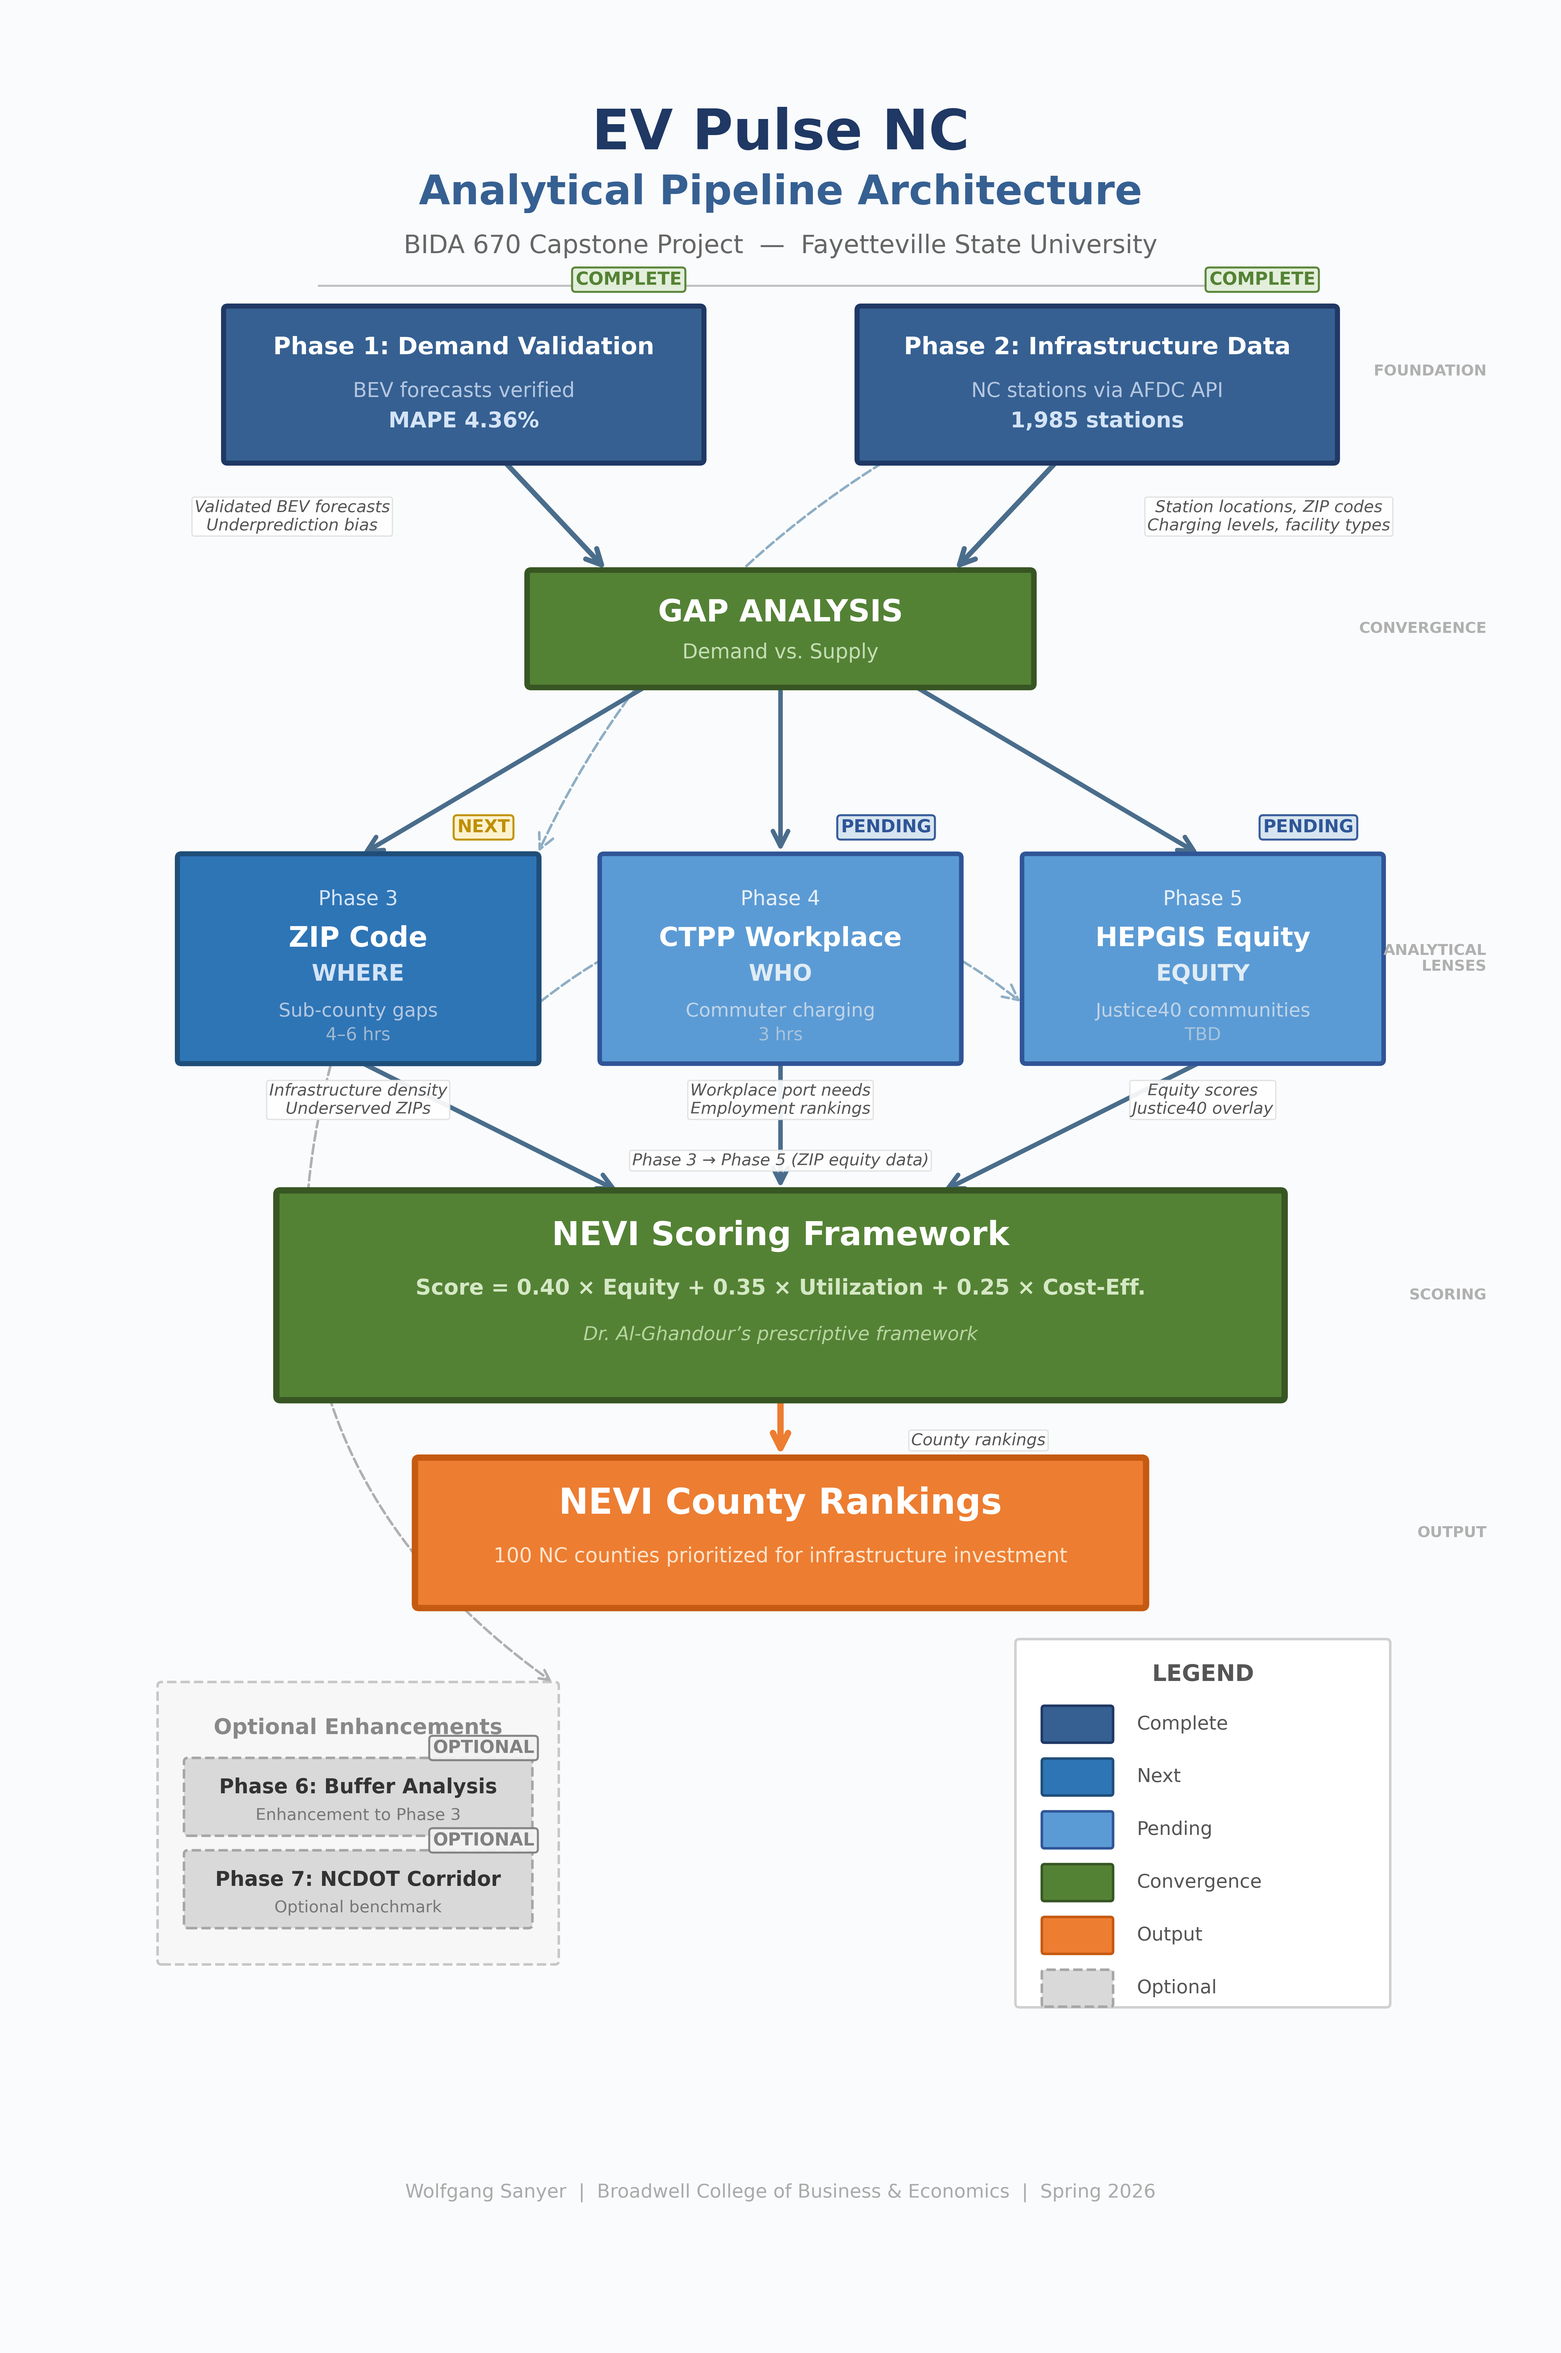
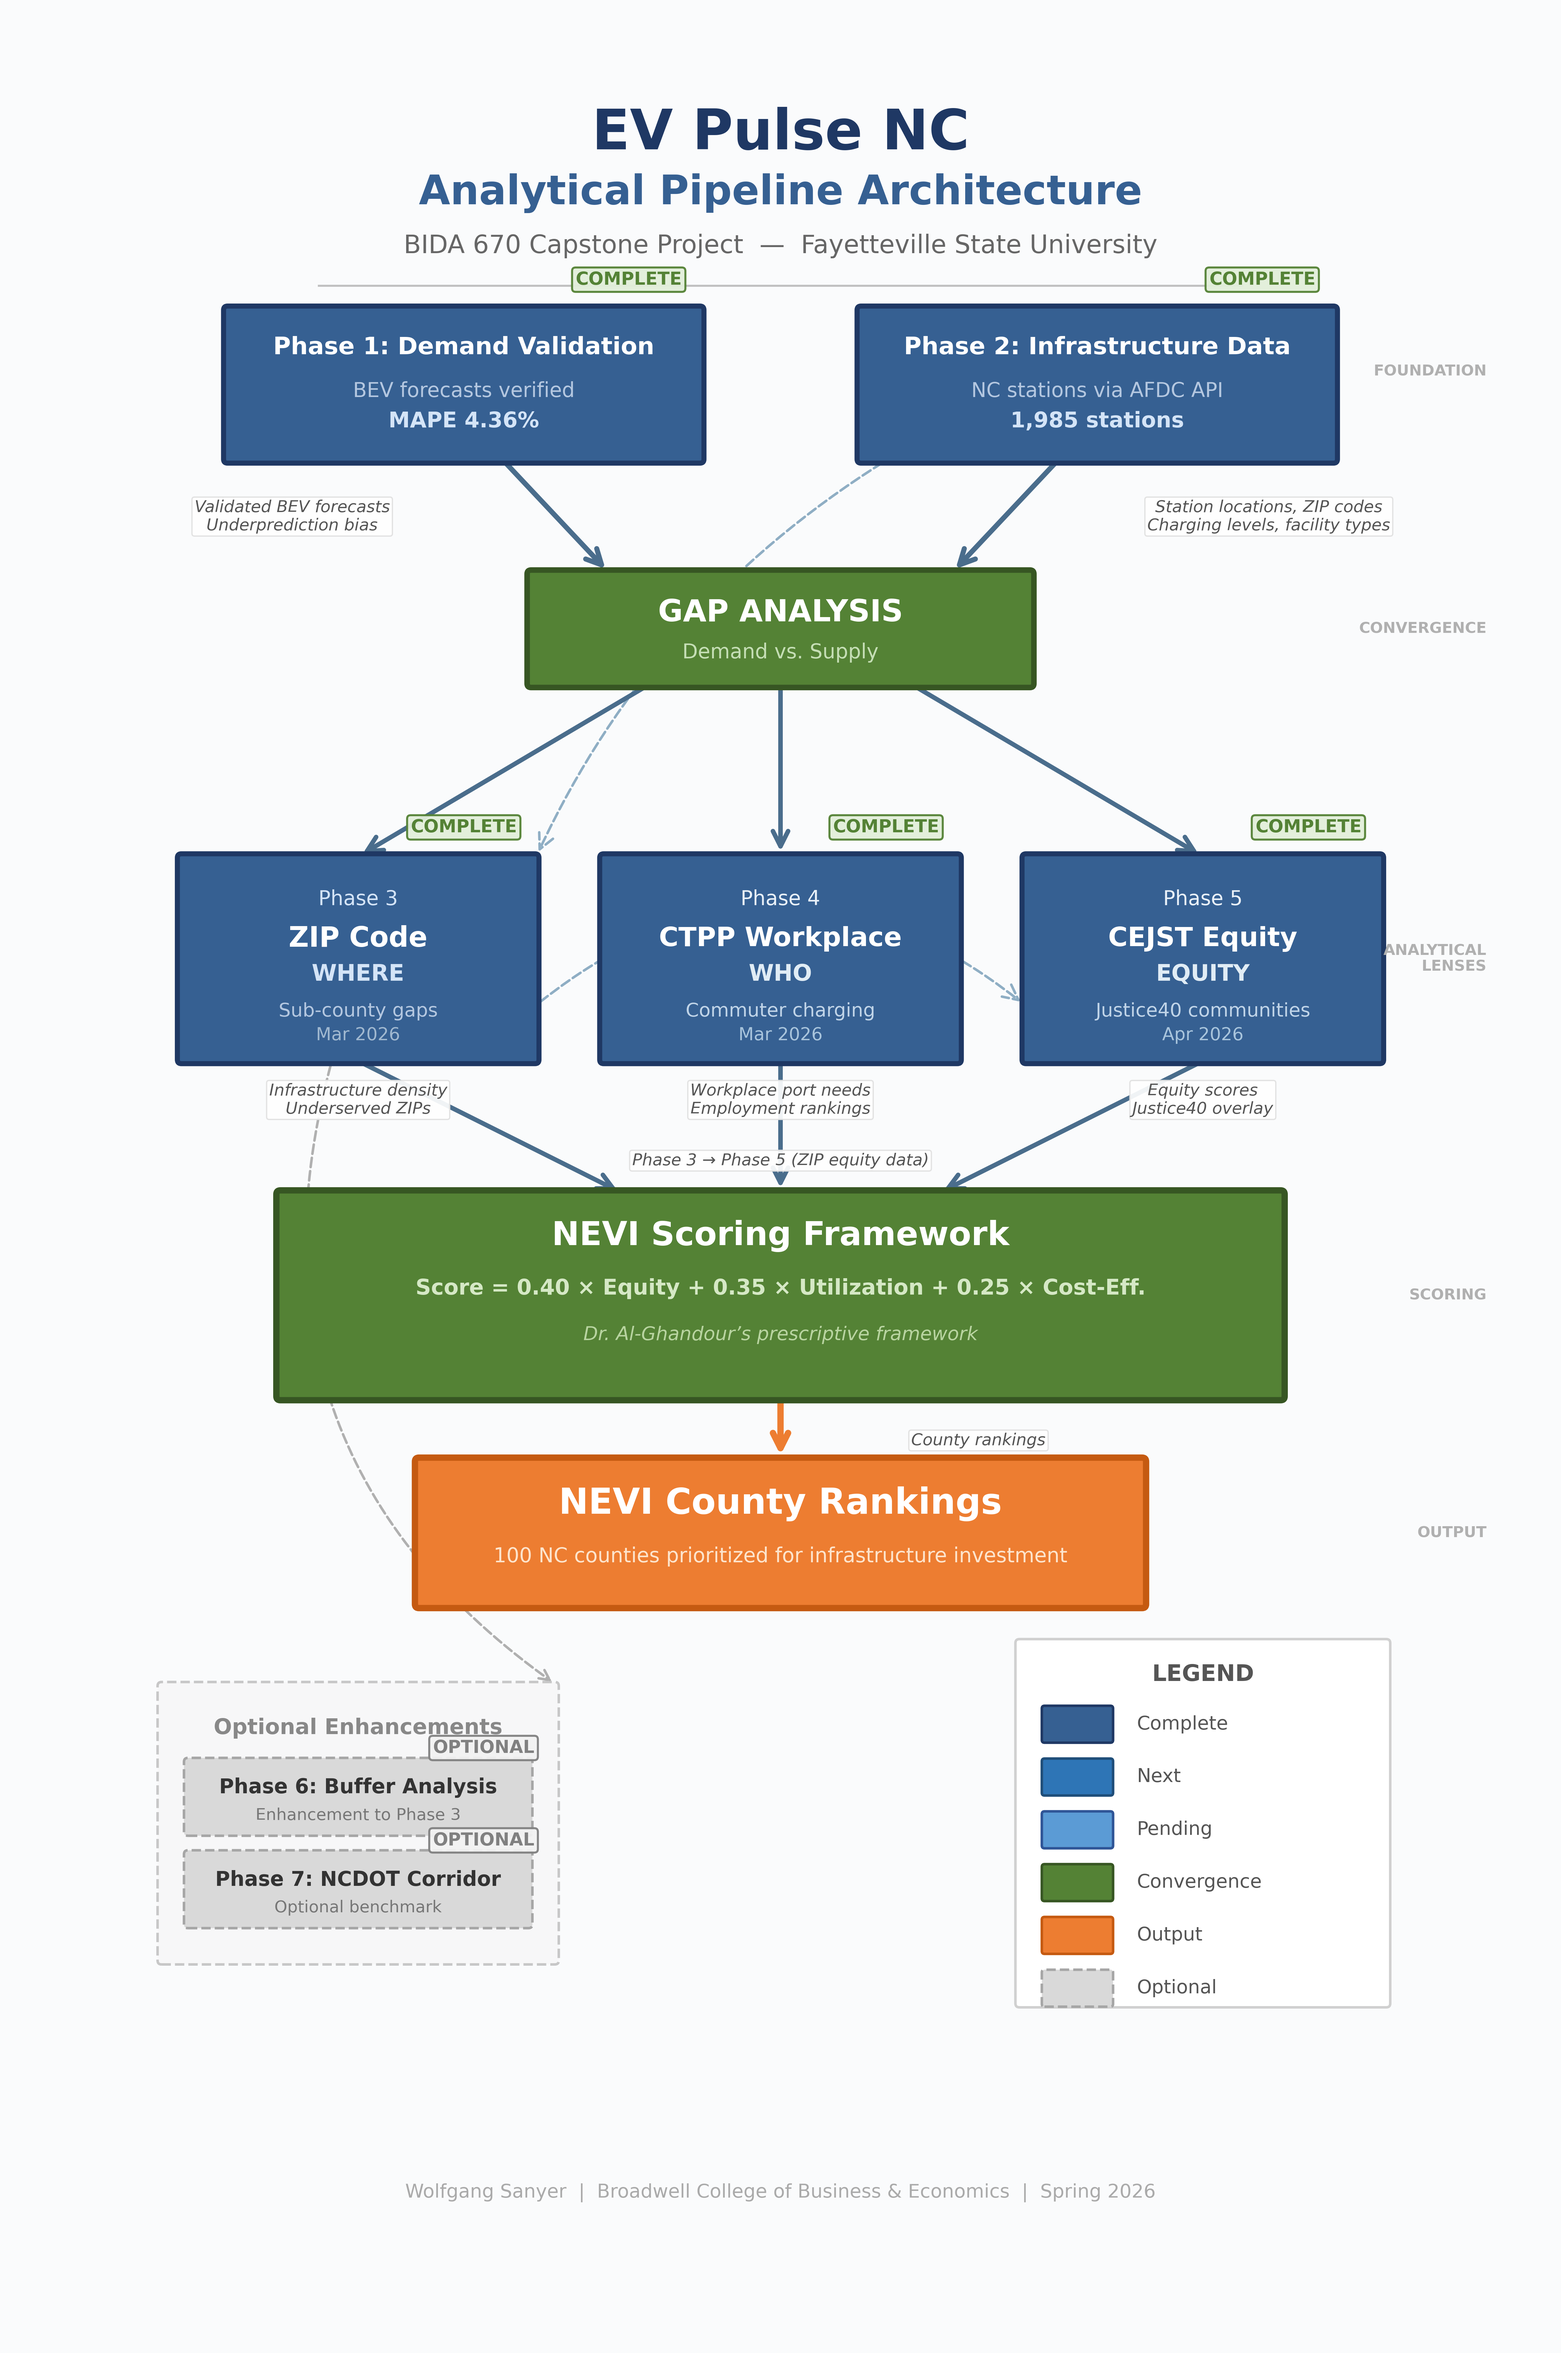
[EVPULSE][DOCS] Update scoring skeleton and pipeline diagram for CEJST equity
Update scoring_framework_skeleton.py string labels and generate_pipeline_diagram.py
to reflect that Phase 5 was implemented with CEJST tract-level Justice40 data
rather than HEPGIS corridors. Mark all merged phases complete in the rendered
pipeline diagram. Regenerate analytical-pipeline.png and the thumbnail.

Changed region(s): [[0.6533, 0.3434, 0.9022, 0.4683], [0.3733, 0.3434, 0.6222, 0.4683], [0.0933, 0.3434, 0.3422, 0.4683]]

diff --git a/scripts/generate_pipeline_diagram.py b/scripts/generate_pipeline_diagram.py
@@ -226,9 +226,9 @@ def create_pipeline_diagram():
     draw_arrow(ax, x_gap + 1.0, y_gap - gap_h / 2, x_lens[2], y_lenses + lens_box_h / 2,
                linewidth=1.8, color="#4A6D8C")
 
-    # Phase 3 — ZIP Code (WHERE) — NEXT
-    draw_rounded_box(ax, x_lens[0], y_lenses, lens_w, lens_box_h, C_NEXT,
-                     C_BORDER_NEXT, linewidth=2)
+    # Phase 3 — ZIP Code (WHERE) — COMPLETE
+    draw_rounded_box(ax, x_lens[0], y_lenses, lens_w, lens_box_h, C_COMPLETE,
+                     C_BORDER_COMPLETE, linewidth=2)
     draw_text(ax, x_lens[0], y_lenses + 0.45, "Phase 3", fontsize=8,
               color="#D4E4F7")
     draw_text(ax, x_lens[0], y_lenses + 0.15, "ZIP Code", fontsize=11,
@@ -237,13 +237,13 @@ def create_pipeline_diagram():
               color="#D4E4F7", weight="semibold")
     draw_text(ax, x_lens[0], y_lenses - 0.40, "Sub-county gaps", fontsize=7.5,
               color="#B4C7E0")
-    draw_text(ax, x_lens[0], y_lenses - 0.58, "4\u20136 hrs", fontsize=7,
+    draw_text(ax, x_lens[0], y_lenses - 0.58, "Mar 2026", fontsize=7,
               color="#A0B8D0")
-    draw_status_badge(ax, x_lens[0] + lens_w / 2 - 0.4, y_lenses + lens_box_h / 2 + 0.22, "NEXT")
+    draw_status_badge(ax, x_lens[0] + lens_w / 2 - 0.55, y_lenses + lens_box_h / 2 + 0.22, "COMPLETE")
 
-    # Phase 4 — CTPP Workplace (WHO) — PENDING
-    draw_rounded_box(ax, x_lens[1], y_lenses, lens_w, lens_box_h, C_PENDING,
-                     C_BORDER_PENDING, linewidth=1.8)
+    # Phase 4 — CTPP Workplace (WHO) — COMPLETE
+    draw_rounded_box(ax, x_lens[1], y_lenses, lens_w, lens_box_h, C_COMPLETE,
+                     C_BORDER_COMPLETE, linewidth=2)
     draw_text(ax, x_lens[1], y_lenses + 0.45, "Phase 4", fontsize=8,
               color="#E8F0F8")
     draw_text(ax, x_lens[1], y_lenses + 0.15, "CTPP Workplace", fontsize=10.5,
@@ -252,24 +252,24 @@ def create_pipeline_diagram():
               color="#E0ECF5", weight="semibold")
     draw_text(ax, x_lens[1], y_lenses - 0.40, "Commuter charging", fontsize=7.5,
               color="#C0D4E8")
-    draw_text(ax, x_lens[1], y_lenses - 0.58, "3 hrs", fontsize=7,
+    draw_text(ax, x_lens[1], y_lenses - 0.58, "Mar 2026", fontsize=7,
               color="#A8C4DC")
-    draw_status_badge(ax, x_lens[1] + lens_w / 2 - 0.55, y_lenses + lens_box_h / 2 + 0.22, "PENDING")
+    draw_status_badge(ax, x_lens[1] + lens_w / 2 - 0.55, y_lenses + lens_box_h / 2 + 0.22, "COMPLETE")
 
-    # Phase 5 — HEPGIS Equity (EQUITY) — PENDING
-    draw_rounded_box(ax, x_lens[2], y_lenses, lens_w, lens_box_h, C_PENDING,
-                     C_BORDER_PENDING, linewidth=1.8)
+    # Phase 5 — CEJST Equity (EQUITY) — COMPLETE
+    draw_rounded_box(ax, x_lens[2], y_lenses, lens_w, lens_box_h, C_COMPLETE,
+                     C_BORDER_COMPLETE, linewidth=2)
     draw_text(ax, x_lens[2], y_lenses + 0.45, "Phase 5", fontsize=8,
               color="#E8F0F8")
-    draw_text(ax, x_lens[2], y_lenses + 0.15, "HEPGIS Equity", fontsize=10.5,
+    draw_text(ax, x_lens[2], y_lenses + 0.15, "CEJST Equity", fontsize=10.5,
               color=C_TEXT_LIGHT, weight="bold")
     draw_text(ax, x_lens[2], y_lenses - 0.12, "EQUITY", fontsize=9,
               color="#E0ECF5", weight="semibold")
     draw_text(ax, x_lens[2], y_lenses - 0.40, "Justice40 communities", fontsize=7.5,
               color="#C0D4E8")
-    draw_text(ax, x_lens[2], y_lenses - 0.58, "TBD", fontsize=7,
+    draw_text(ax, x_lens[2], y_lenses - 0.58, "Apr 2026", fontsize=7,
               color="#A8C4DC")
-    draw_status_badge(ax, x_lens[2] + lens_w / 2 - 0.55, y_lenses + lens_box_h / 2 + 0.22, "PENDING")
+    draw_status_badge(ax, x_lens[2] + lens_w / 2 - 0.55, y_lenses + lens_box_h / 2 + 0.22, "COMPLETE")
 
     # ════════════════════════════════════════════════════════════════════════
     # Cross-feed arrows (secondary data flows)

diff --git a/code/python/analysis/scoring_framework_skeleton.py b/code/python/analysis/scoring_framework_skeleton.py
@@ -107,11 +107,11 @@ NAN_COLUMN_DOCS: dict[str, tuple[str, str]] = {
         "requires min-max scaling across full state",
     ),
     "equity_justice40_pct": (
-        "Phase 5 (HEPGIS)",
+        "Phase 5 (CEJST)",
         "Percentage of census tracts designated as Justice40 disadvantaged communities",
     ),
     "equity_score": (
-        "Phase 3 + Phase 5 (HEPGIS)",
+        "Phase 3 + Phase 5 (CEJST)",
         "Cannot compute without Justice40 data; "
         "Gini and zero-station metrics alone are insufficient",
     ),
@@ -343,7 +343,7 @@ def build_skeleton(
 
     skeleton["equity_justice40_pct"] = np.nan
     skeleton["equity_score"] = np.nan
-    skeleton["equity_source"] = "Phase 3 + Phase 5 (HEPGIS)"
+    skeleton["equity_source"] = "Phase 3 + Phase 5 (CEJST)"
 
     # --- Composite ---
     skeleton["nevi_priority_score"] = np.nan
@@ -495,7 +495,7 @@ def main() -> None:
         f"{WEIGHT_COST_EFFECTIVENESS:.2f} x Cost_Effectiveness_Score"
     )
     print(
-        "\n  Status: BLOCKED -- awaiting Phase 5 (HEPGIS) data\n"
+        "\n  Status: Superseded by scoring_framework_final.py (Phase 5 CEJST implementation)\n"
     )
 
 
